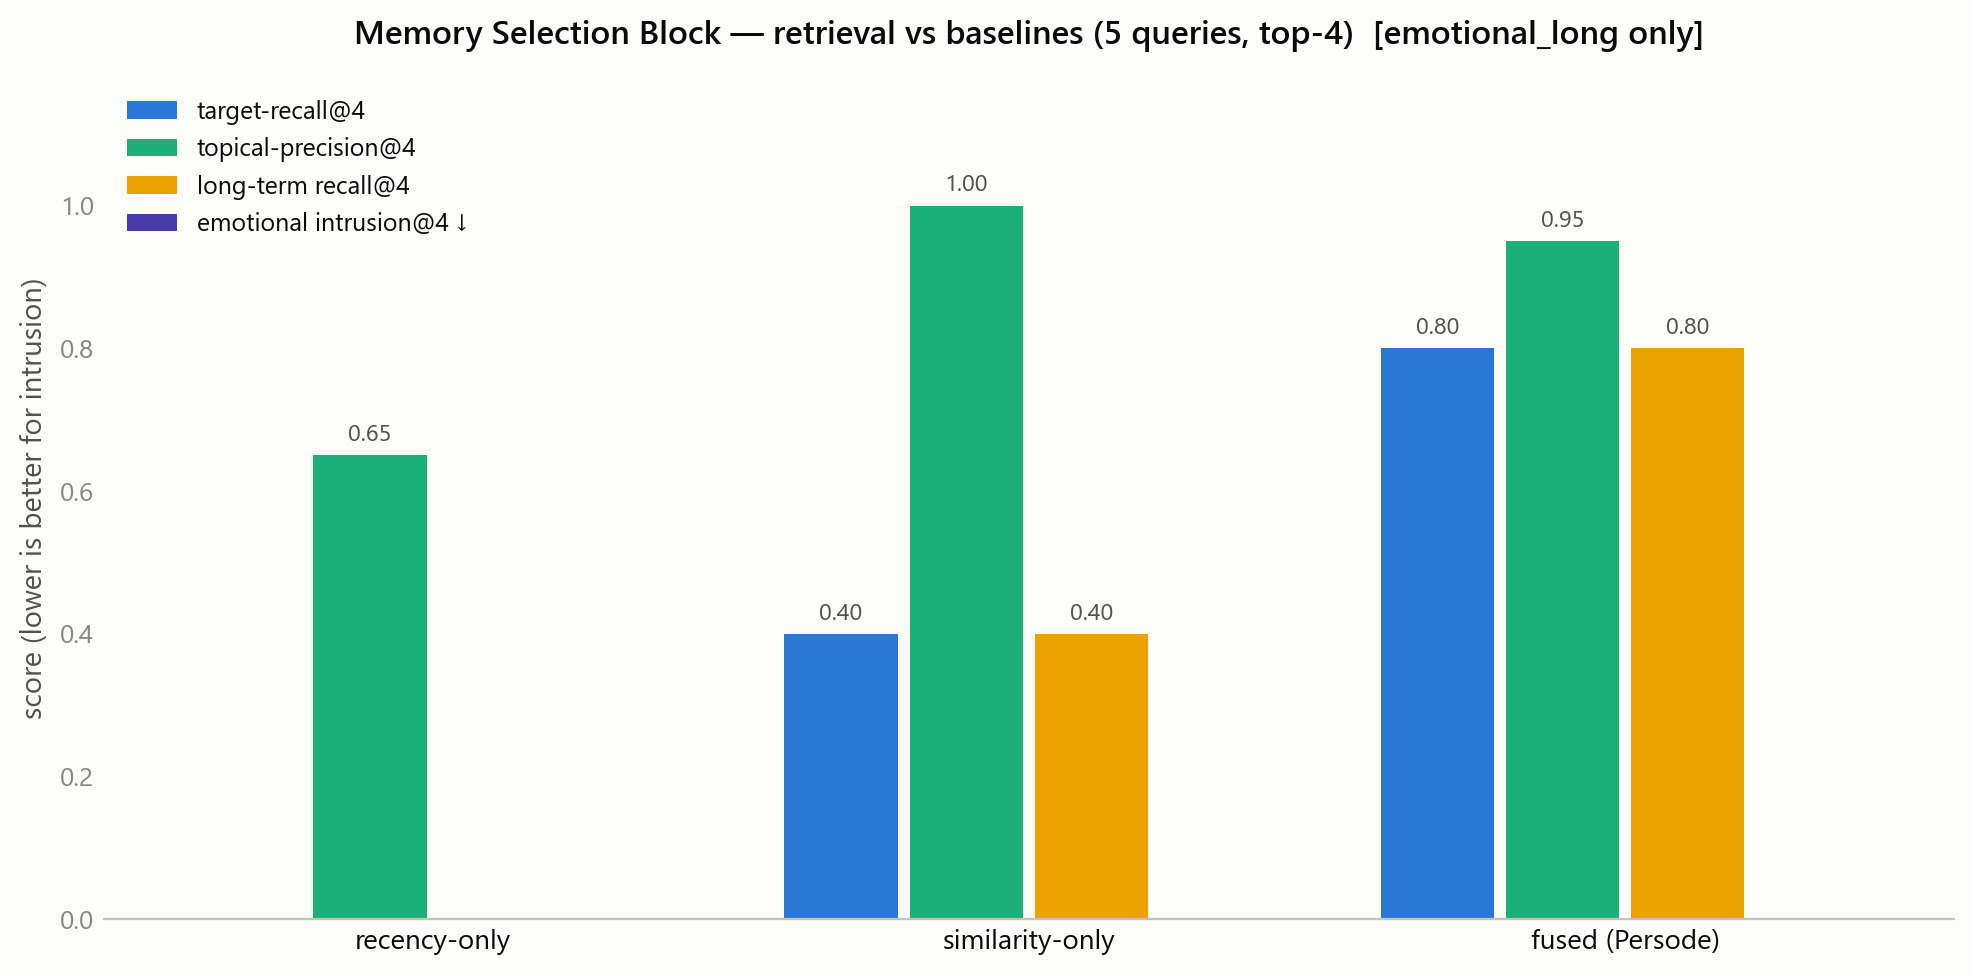
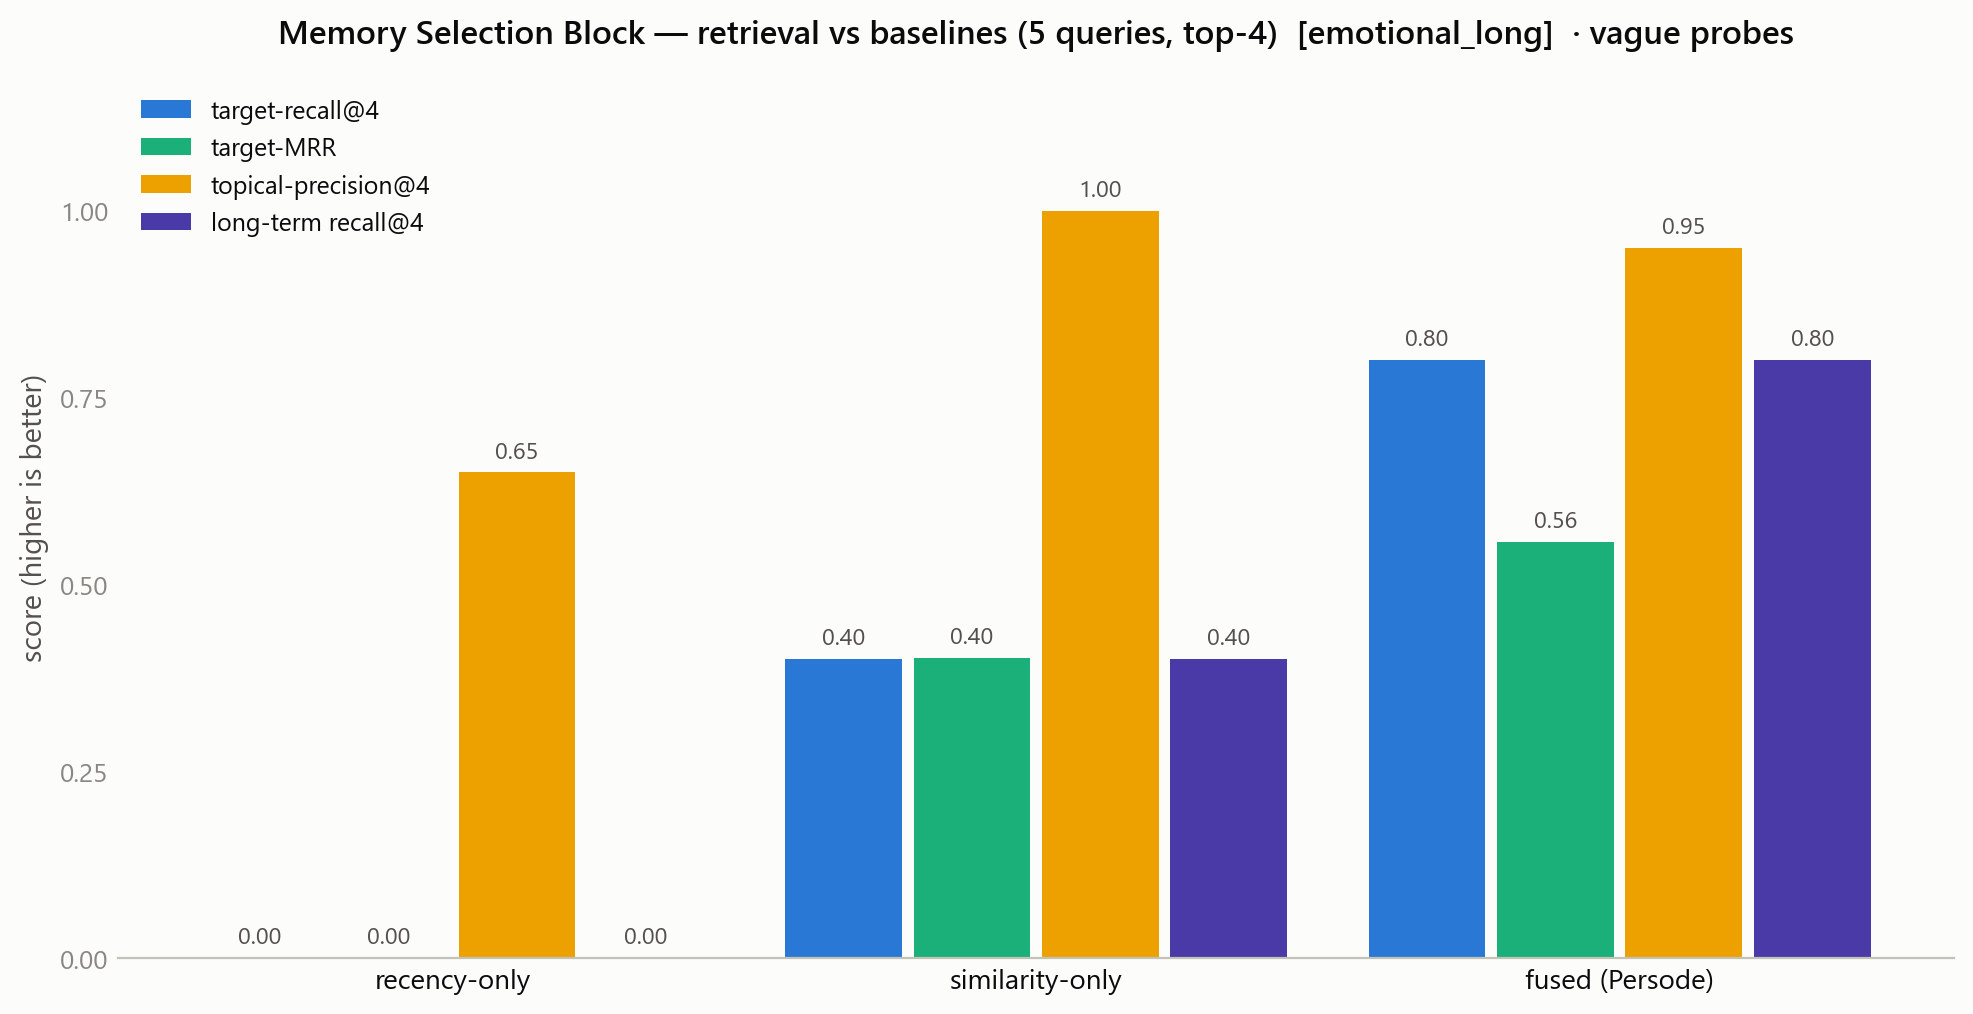
Fix Exp. 3 chart to match README metrics; add run_all and regenerate figures

diff --git a/experiments/exp3_retrieval.py b/experiments/exp3_retrieval.py
@@ -66,30 +66,40 @@ def main() -> None:
                   f"(neutral queries, n={res['neutral_query_count']})")
 
     style.apply()
-    metrics = [
+    # Chart metrics must match the README table — skip N/A columns.
+    metric_defs = [
         (f"target-recall@{top_k}", "target_recall", style.BLUE),
-        (f"topical-precision@{top_k}", "topical_precision", style.AQUA),
-        (f"long-term recall@{top_k}", "long_term_recall", style.YELLOW),
-        (f"emotional intrusion@{top_k} ↓", "emotional_intrusion", style.VIOLET),
+        (f"target-MRR", "target_mrr", style.AQUA),
+        (f"topical-precision@{top_k}", "topical_precision", style.YELLOW),
+        (f"long-term recall@{top_k}", "long_term_recall", style.VIOLET),
+    ]
+    metrics = [
+        (label, key, color) for label, key, color in metric_defs
+        if any(strategies[n].get(key) is not None for n in strategies)
     ]
     names = list(strategies.keys())
     x = np.arange(len(names))
-    w, gap = 0.19, 0.02
-    fig, ax = plt.subplots(figsize=(10, 5))
+    n_met = len(metrics)
+    w = min(0.22, 0.8 / max(n_met, 1))
+    gap = 0.02
+    fig, ax = plt.subplots(figsize=(10, 5.2))
     for i, (label, key, color) in enumerate(metrics):
-        vals = [0.0 if strategies[n].get(key) is None else strategies[n][key] for n in names]
-        bars = ax.bar(x + (i - 1.5) * (w + gap), vals, w, label=label, color=color)
-        for b in bars:
-            if b.get_height() > 0:
-                ax.text(b.get_x() + b.get_width() / 2, b.get_height() + 0.02,
-                        f"{b.get_height():.2f}", ha="center", fontsize=8.5, color=style.INK_2)
+        vals = [strategies[n].get(key) or 0.0 for n in names]
+        offset = (i - (n_met - 1) / 2) * (w + gap)
+        bars = ax.bar(x + offset, vals, w, label=label, color=color)
+        for b, v in zip(bars, vals):
+            ax.text(b.get_x() + b.get_width() / 2, b.get_height() + 0.02,
+                    f"{v:.2f}", ha="center", fontsize=8.5, color=style.INK_2)
     ax.set_xticks(x)
     ax.set_xticklabels(names, fontsize=10, color=style.INK)
     ax.set_ylim(0, 1.18)
-    ax.set_ylabel("score (lower is better for intrusion)")
+    ax.set_yticks([0, 0.25, 0.5, 0.75, 1.0])
+    ax.set_ylabel("score (higher is better)")
     title = f"Memory Selection Block — retrieval vs baselines ({qn} queries, top-{top_k})"
     if cfg.query_filter:
-        title += f"  [{cfg.query_filter} only]"
+        title += f"  [{cfg.query_filter}]"
+    if cfg.paraphrase == "vague":
+        title += "  · vague probes"
     ax.set_title(title)
     ax.legend(loc="upper left", ncol=1, fontsize=9)
     style.style_axes(ax)

diff --git a/experiments/run_all.py b/experiments/run_all.py
@@ -1,0 +1,35 @@
+"""Run all four paper experiments and regenerate results/ artifacts."""
+
+from __future__ import annotations
+
+import importlib.util
+import sys
+from pathlib import Path
+
+ROOT = Path(__file__).resolve().parents[1]
+EXPS = [
+    "exp1_forgetting_curve.py",
+    "exp2_memory_scoring.py",
+    "exp3_retrieval.py",
+    "exp4_visual_prompt.py",
+]
+
+
+def _run(script: str) -> None:
+    path = Path(__file__).resolve().parent / script
+    print(f"\n{'=' * 60}\n>>> {script}\n{'=' * 60}")
+    spec = importlib.util.spec_from_file_location(path.stem, path)
+    mod = importlib.util.module_from_spec(spec)
+    sys.modules[path.stem] = mod
+    spec.loader.exec_module(mod)
+    mod.main()
+
+
+def main() -> None:
+    for script in EXPS:
+        _run(script)
+    print("\nAll experiments finished. Outputs in results/")
+
+
+if __name__ == "__main__":
+    main()

diff --git a/README.md b/README.md
@@ -70,6 +70,15 @@ Optional extras: `pip install -e ".[semantic]"` (sentence-transformers), `".[ope
 
 Four standalone scripts under [`experiments/`](experiments) validate each mechanism against the paper's claims. All are deterministic (fixed reference clock, hand-labelled scenario in [`experiments/_scenario.py`](experiments/_scenario.py)) and run offline in seconds, writing figures + machine-readable JSON to [`results/`](results).
 
+```bash
+python experiments/run_all.py          # regenerate every figure + JSON
+python experiments/exp1_forgetting_curve.py
+python experiments/exp2_memory_scoring.py
+python experiments/exp3_retrieval.py   # uses results/exp3_tuned_config.json if present
+python experiments/exp4_visual_prompt.py
+python experiments/tune_exp3_loop.py   # hyperparameter search for Exp. 3 only
+```
+
 ### Exp. 1 — Forgetting-curve calibration
 
 The paper anchors short-term memory to a six-day window with a ~75 % retention drop. Solving `e^(−6λ) = 0.25` gives **λ = ln 4⁄6 ≈ 0.231/day** (half-life 3 days); the assertion in the script verifies the calibration to machine precision. The right panel shows the consolidation mechanism: salience slows the decay (`λ_eff = λ·(1 − γ·k)`), so an emotionally intense memory is still retrievable after a month while a neutral one has effectively vanished.
@@ -126,6 +135,7 @@ Covering: decay calibration and clamping, Eq. 1 scoring / weight normalisation /
 - The UX study (N = 20) and actual image generation from the paper are out of scope; offline text output is intentionally template-simple.
 - The evaluation scenario is a small hand-labelled synthetic set built from the paper's own vignettes — good for verifying mechanisms, not a public benchmark. Exp. 3 reports per-query JSON so every aggregate number is auditable.
 - The offline lexicon analyzer is keyword-based; nuanced or sarcastic emotion needs the LLM backend.
+- **What is not a separate experiment script:** α fusion ablation plots, sentence-transformer vs hashing embedder comparison, reinforcement-over-time curves, and the paper's user study — the core four scripts above cover the implementable offline mechanisms only.
 
 ## Citation
 